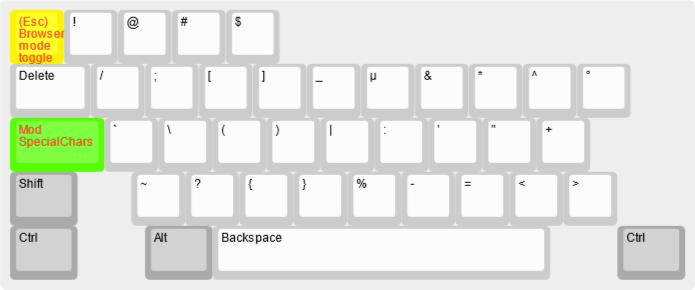
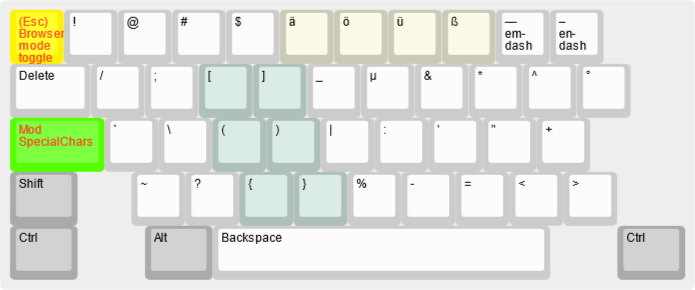
Update Czech accent hotkeys, regenerate layout diagrams

Changed region(s): [[0.2719, 0.031, 0.8763, 0.7759]]

diff --git a/README.md b/README.md
@@ -31,7 +31,7 @@ This layer is active by default.
 
 ### Accents
 
-I use the following `Shift-?` an `Ctrl-Shift-?` key combinations to type most of the Czech accents and em-dash + en-dash.
+I use the following `Shift + ?` and `ISO\ + ?` number key combinations to type most of the Czech accents.
 
 ![Czech accent layer](./layout_diagram/czech_accents.png)
 
